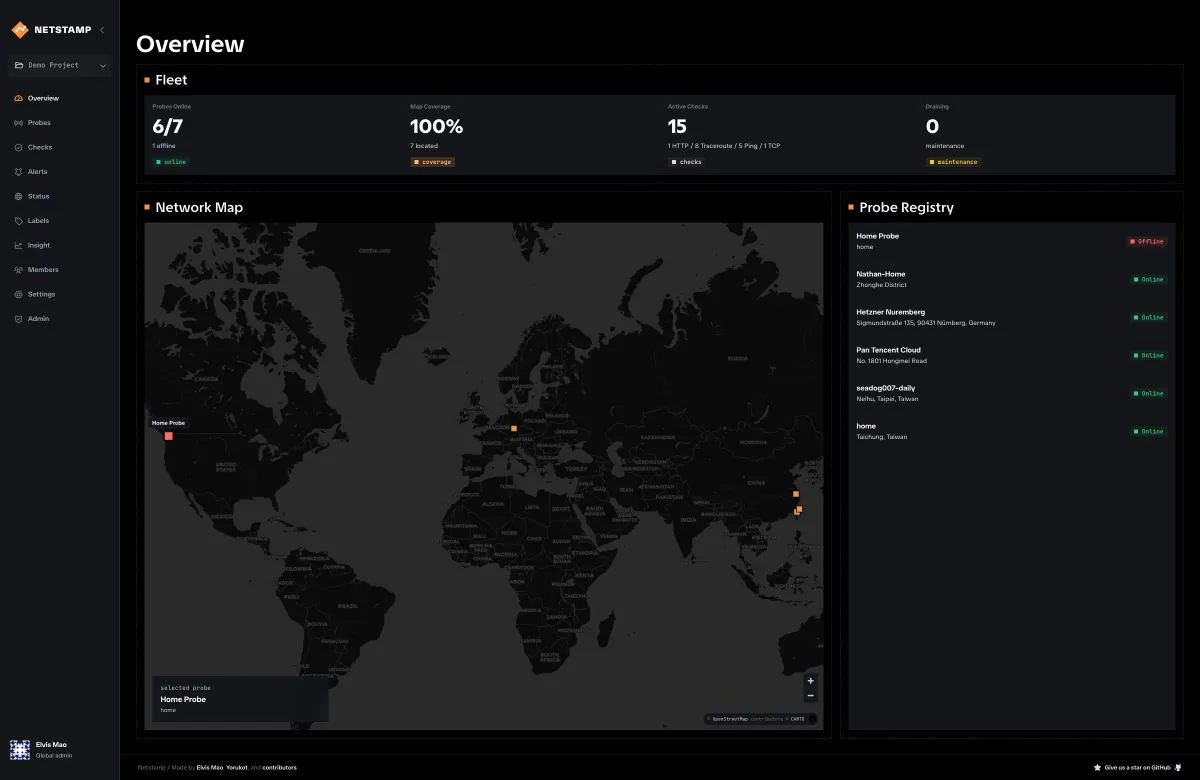
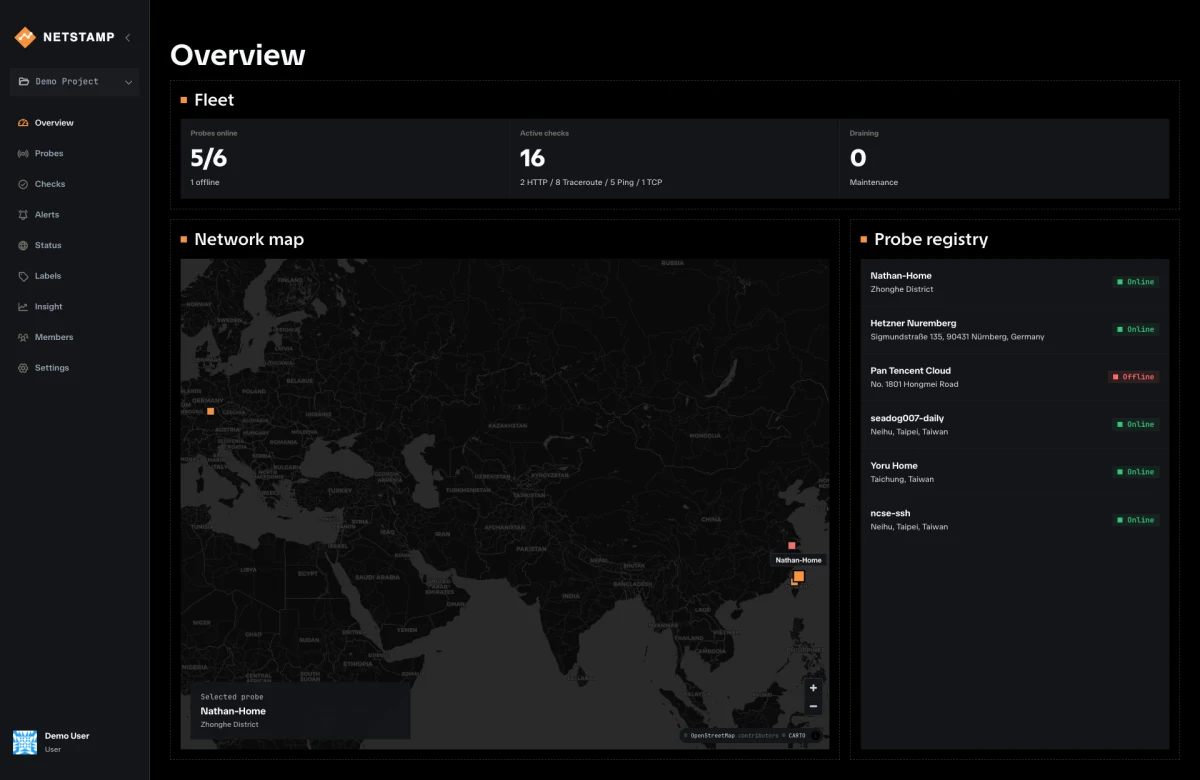
web/dashboard: remove coverage metric and tags

diff --git a/web/src/features/dashboard/components/DashboardPage.tsx b/web/src/features/dashboard/components/DashboardPage.tsx
@@ -19,14 +19,6 @@ const probeStatusTones: Record<ProbeStatus, BadgeTone> = {
 	Offline: "critical"
 };
 
-function percentage(part: number, total: number) {
-	if (!total) {
-		return "0%";
-	}
-
-	return `${Math.round((part / total) * 100)}%`;
-}
-
 export function DashboardPage() {
 	const { t } = useTranslation(["dashboard", "probes"]);
 	const { projectRef } = useCurrentProject();
@@ -61,25 +53,14 @@ export function DashboardPage() {
 		{
 			label: t("dashboard:metrics.probesOnline"),
 			value: `${onlineProbes}/${probes.length}`,
-			detail: t("dashboard:metrics.online"),
-			tone: "success",
 			meta: t("dashboard:metrics.offlineCount", { count: offlineProbes })
-		},
-		{
-			label: t("dashboard:metrics.mapCoverage"),
-			value: percentage(positionedProbes.length, probes.length),
-			detail: t("dashboard:metrics.coverage"),
-			tone: "accent",
-			meta: t("dashboard:metrics.locatedCount", { count: positionedProbes.length })
 		},
 		{
 			label: t("dashboard:metrics.activeChecks"),
 			value: String(activeChecks),
-			detail: t("dashboard:metrics.checks"),
-			tone: "neutral",
 			meta: checkTypeSummary.map(([type, count]) => `${count} ${type}`).join(" / ") || t("dashboard:metrics.none")
 		},
-		{ label: t("dashboard:metrics.draining"), value: String(drainingProbes), detail: t("dashboard:metrics.maintenance"), tone: "warning", meta: t("dashboard:metrics.maintenance") }
+		{ label: t("dashboard:metrics.draining"), value: String(drainingProbes), meta: t("dashboard:metrics.maintenance") }
 	] as const;
 	const statusLabel = (status: ProbeStatus) => t(`probes:status.${status.toLowerCase() as "online" | "draining" | "offline"}`);
 
@@ -94,7 +75,7 @@ export function DashboardPage() {
 			<div className={styles.sections}>
 				<Panel className={styles.overviewSection} title={t("dashboard:fleet")} padded={false} bodyClassName={styles.metricsContent}>
 					{metrics.map(metric => (
-						<MetricTile className={styles.metricTile} key={metric.label} label={metric.label} value={metric.value} description={metric.meta} detail={metric.detail} tone={metric.tone} />
+						<MetricTile className={styles.metricTile} key={metric.label} label={metric.label} value={metric.value} description={metric.meta} />
 					))}
 				</Panel>
 

diff --git a/web/src/features/dashboard/components/DashboardPage.module.css b/web/src/features/dashboard/components/DashboardPage.module.css
@@ -61,7 +61,7 @@
 
 .metricsContent {
 	display: grid;
-	grid-template-columns: repeat(4, minmax(0, 1fr));
+	grid-template-columns: repeat(3, minmax(0, 1fr));
 }
 
 .metricTile {
@@ -186,18 +186,6 @@
 	.sections {
 		display: grid;
 		grid-template-rows: auto;
-	}
-
-	.metricsContent {
-		grid-template-columns: repeat(2, minmax(0, 1fr));
-	}
-
-	.metricTile:nth-child(2n) {
-		border-right: 0;
-	}
-
-	.metricTile:nth-child(n + 3) {
-		border-top: 1px solid var(--ns-border-faint);
 	}
 
 	.mapSection,
